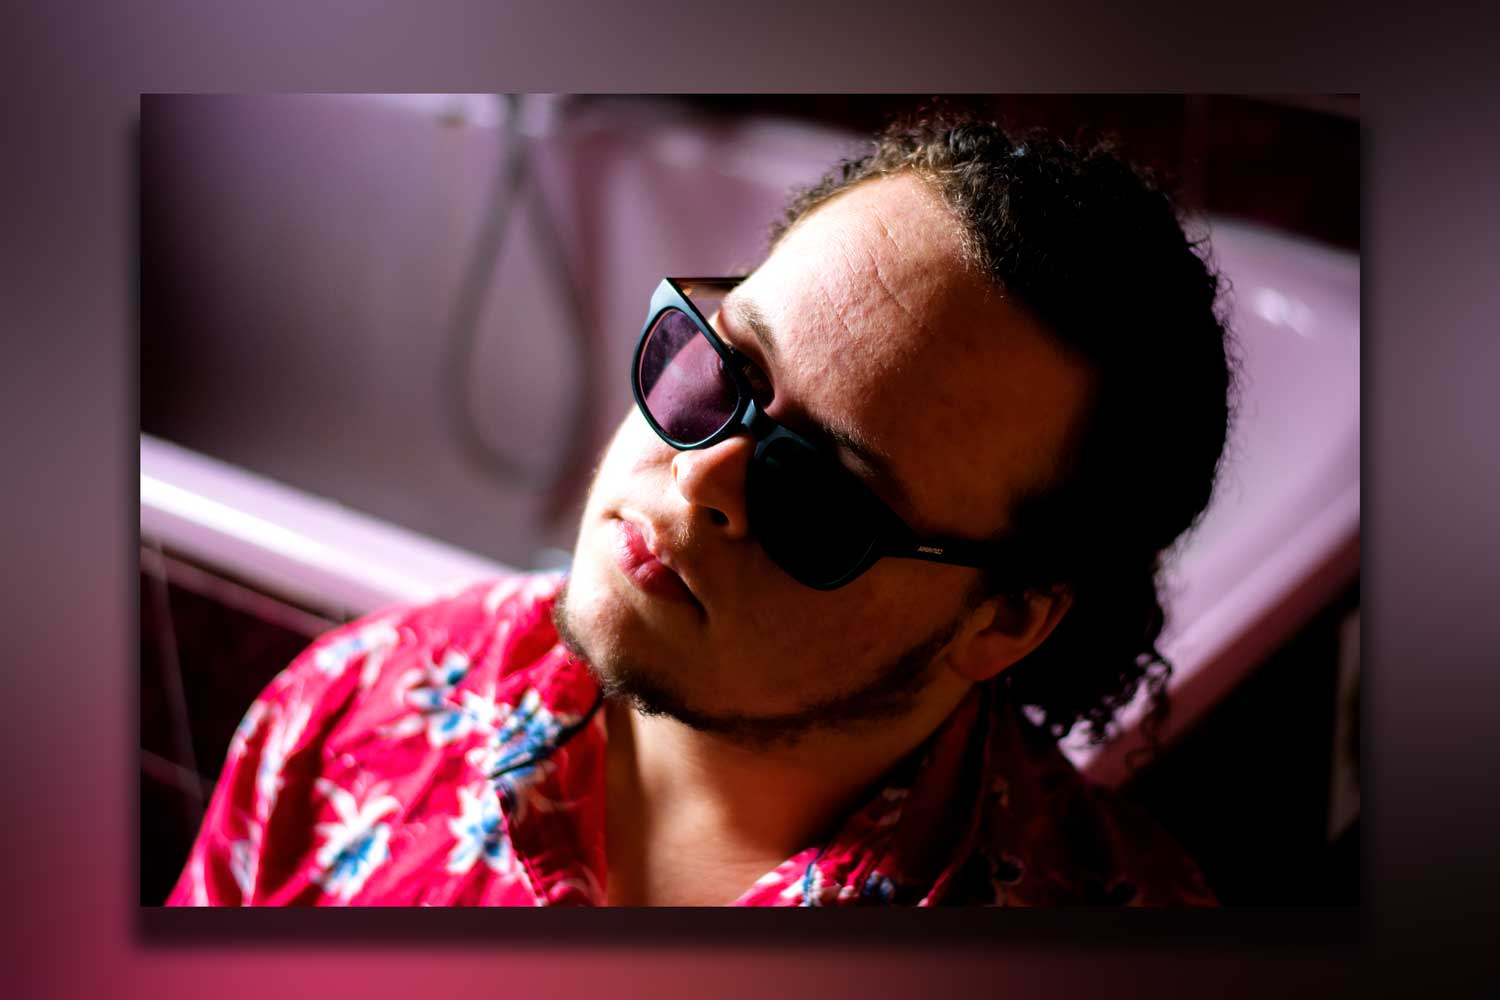
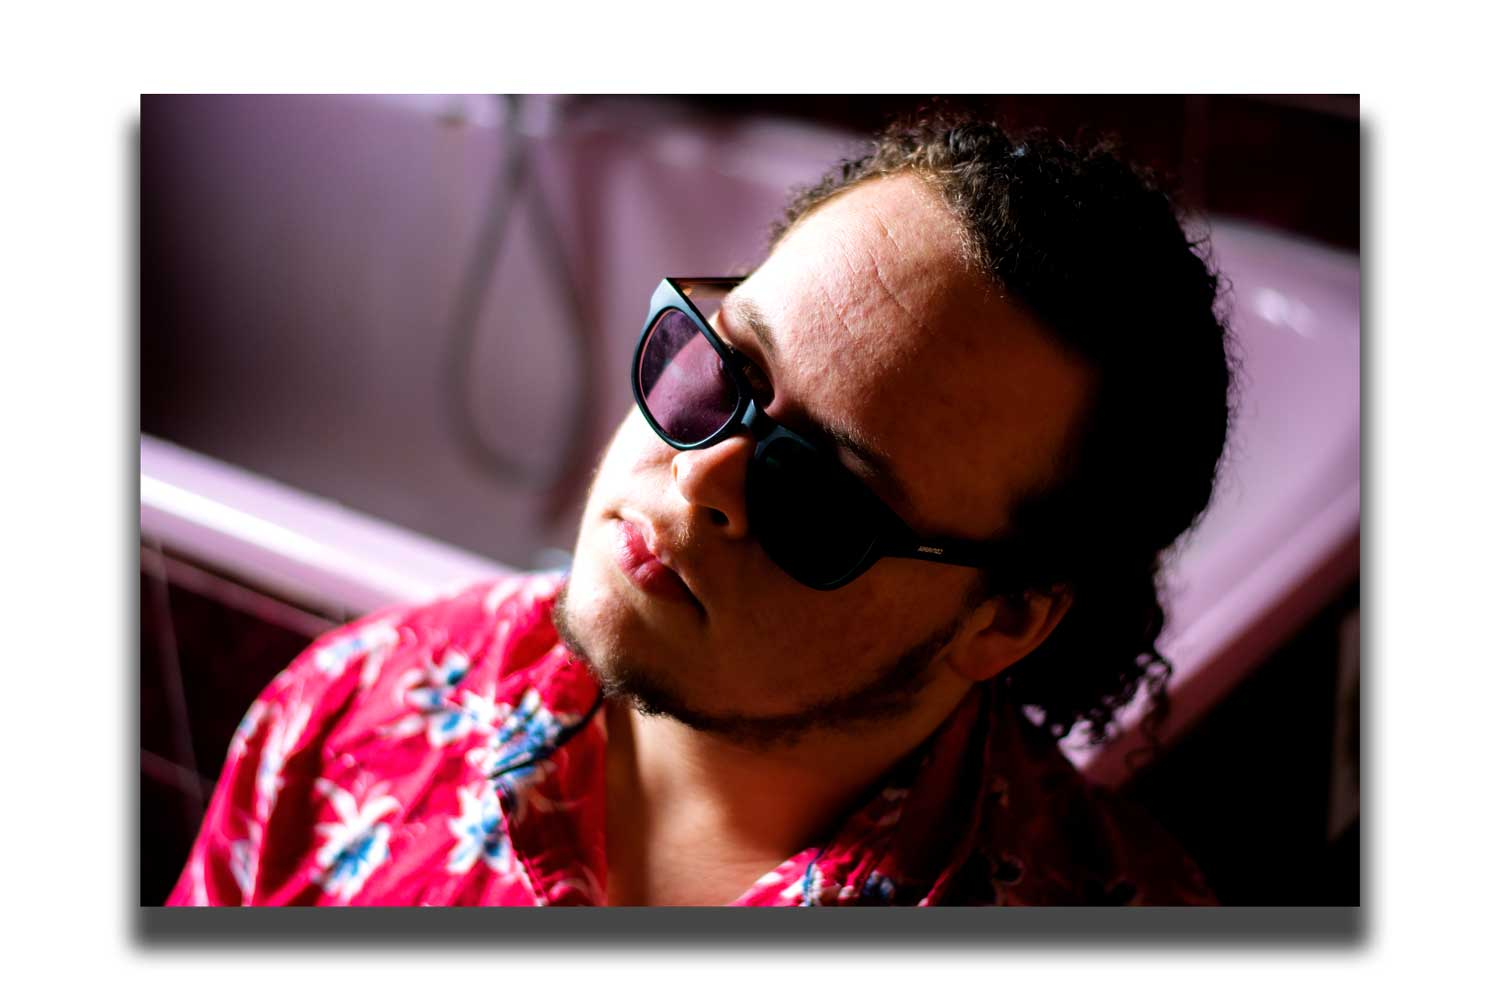
datbenik heeft nu geen achtergrond

diff --git a/style.css b/style.css
@@ -72,12 +72,6 @@ img.aboutImage{
 .aboutWrapper{
 	padding-top: 65px;
 	padding-bottom: 65px;
-	background-color: #1a1e23;
-	max-height: 510px;
-	width: 100vw;
-	left: 0;
-	position: absolute;
-	overflow: hidden;
 }
 
 .project{
